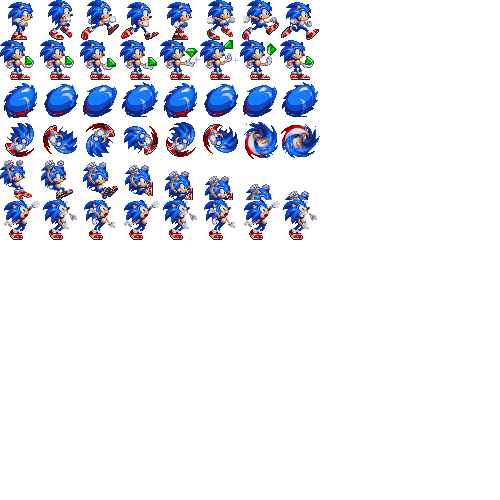
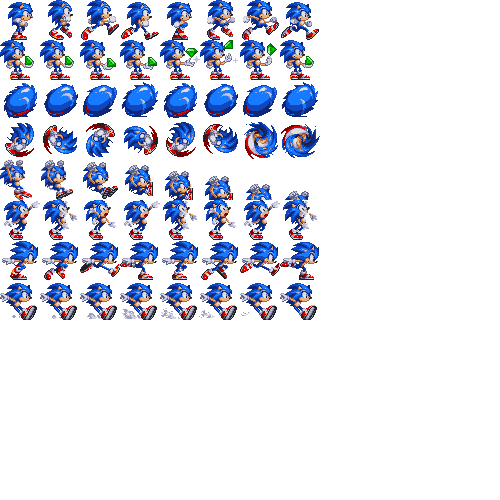
소닉 브레이크 애니메이션
갑자기 멈출때의 애니메이션 추가

Changed region(s): [[0.0, 0.48, 0.66, 0.66]]

diff --git a/stage1_1.py b/stage1_1.py
@@ -90,13 +90,13 @@ class player:
                 self.jumpTime = 0.0
                 self.jumpcount = 2
 
-        if self.dir != 0 and self.plus_move < 0.5:
-            self.plus_move += 0.01
-            if self.plus_move > 0.5:
-                self.plus_move = 0.5
+        if self.dir != 0 and self.plus_move < 0.6:
+            self.plus_move += 0.0005
+            if self.plus_move > 0.6:
+                self.plus_move = 0.6
 
         elif self.dir == 0 and self.plus_move > 0:
-            self.plus_move -= 0.01
+            self.plus_move -= 0.0015
             if self.plus_move < 0:
                 self.plus_move = 0
 
@@ -109,9 +109,9 @@ class player:
             self.x = 30
         else:
             if self.fast and self.dir != 0:  # 대시 on
-                self.x += (self.dir * 0.03) + (self.dir2 * self.plus_move)
+                self.x += (self.dir * 0.2) + (self.dir2 * self.plus_move)
             else:  # 대시 off
-                self.x += self.dir2 * self.plus_move / 2
+                self.x += self.dir2 * self.plus_move
         self.Ground = False
 
         for i in b:
@@ -153,7 +153,10 @@ class player:
                         if self.Jumping:
                             sonic_sprite.clip_draw(int(self.frame) * 40, 340, 40, 40, self.x, self.y, 60, 60)
                         else:
-                            sonic_sprite.clip_draw(int(self.frame) * 40, 460, 40, 40, self.x, self.y, 60, 60)
+                            if self.plus_move < 0.5:
+                                sonic_sprite.clip_draw(int(self.frame) * 40, 460, 40, 40, self.x, self.y, 60, 60)
+                            else:
+                                sonic_sprite.clip_draw(int(self.frame) * 40, 220, 40, 40, self.x, self.y, 60, 60)
 
                 elif self.dir == -1:  # 왼쪽
                     if self.fast:  # 대시
@@ -162,17 +165,26 @@ class player:
                         if self.Jumping:
                             sonic_sprite.clip_composite_draw(int(self.frame) * 40, 340, 40, 40, 0, 'h', self.x, self.y, 60, 60)
                         else:
-                            sonic_sprite.clip_composite_draw(int(self.frame) * 40, 460, 40, 40, 0, 'h', self.x, self.y, 60, 60)
+                            if self.plus_move < 0.5:
+                                sonic_sprite.clip_composite_draw(int(self.frame) * 40, 460, 40, 40, 0, 'h', self.x, self.y, 60, 60)
+                            else:
+                                sonic_sprite.clip_composite_draw(int(self.frame) * 40, 220, 40, 40, 0, 'h', self.x,self.y, 60, 60)
 
                 elif self.dir == 0 and self.dir2 == 1:  # 마지막이 오른쪽이였던 멈춤
                     if self.Jumping == False:
-                        sonic_sprite.clip_draw(int(self.frame) * 40, 420, 40, 40, self.x, self.y, 60, 60)
+                        if self.plus_move == 0:
+                            sonic_sprite.clip_draw(int(self.frame) * 40, 420, 40, 40, self.x, self.y, 60, 60)
+                        else:
+                            sonic_sprite.clip_draw(int(self.frame) * 40, 180, 40, 40, self.x, self.y, 60, 60)
                     else:
                         sonic_sprite.clip_draw(int(self.frame) * 40, 340, 40, 40, self.x, self.y, 60, 60)
 
                 elif self.dir == 0 and self.dir2 == -1:  # 마지막이 왼쪽이였던 멈춤
                     if self.Jumping == False:
-                        sonic_sprite.clip_composite_draw(int(self.frame) * 40, 420, 40, 40, 0, 'h', self.x, self.y, 60, 60)
+                        if self.plus_move == 0:
+                            sonic_sprite.clip_composite_draw(int(self.frame) * 40, 420, 40, 40, 0, 'h', self.x, self.y, 60, 60)
+                        else:
+                            sonic_sprite.clip_composite_draw(int(self.frame) * 40, 180, 40, 40, 0, 'h', self.x, self.y,60, 60)
                     else:
                         sonic_sprite.clip_composite_draw(int(self.frame) * 40, 340, 40, 40, 0, 'h', self.x, self.y, 60, 60)
 
